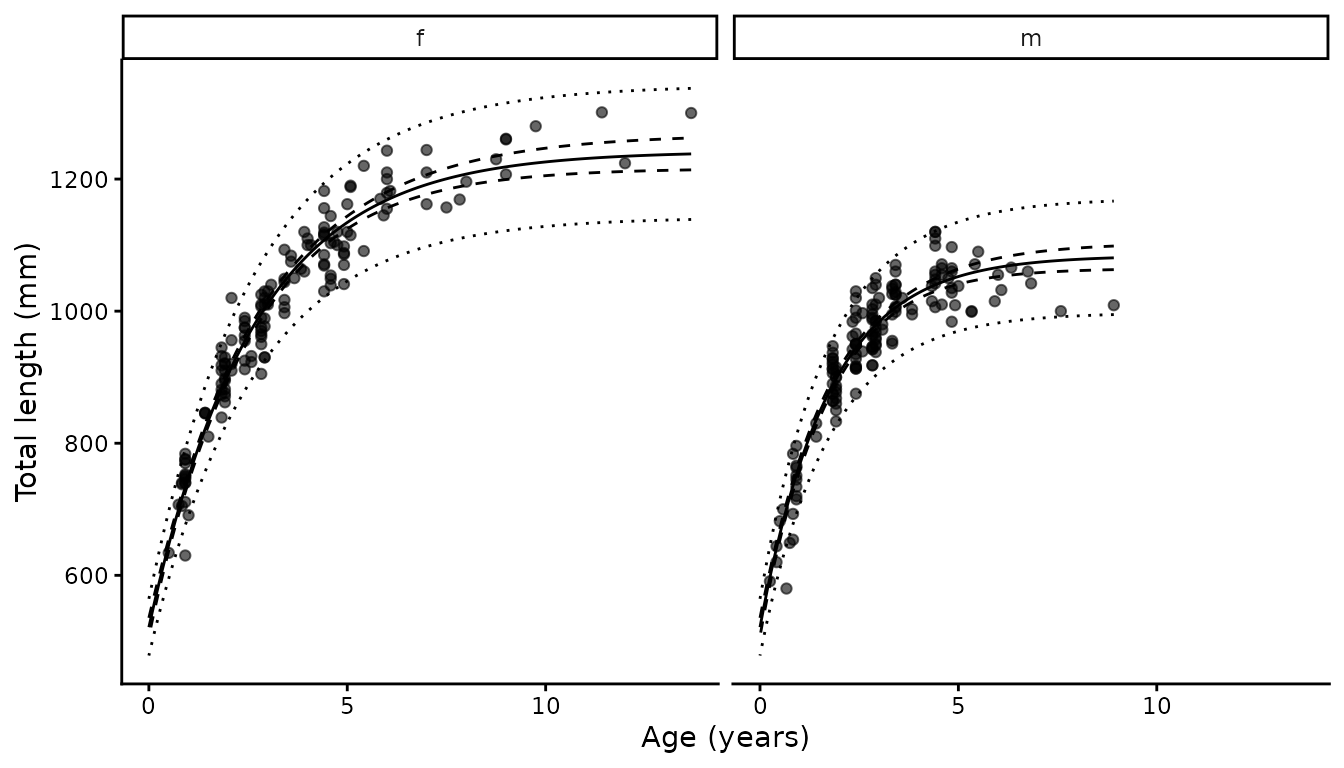
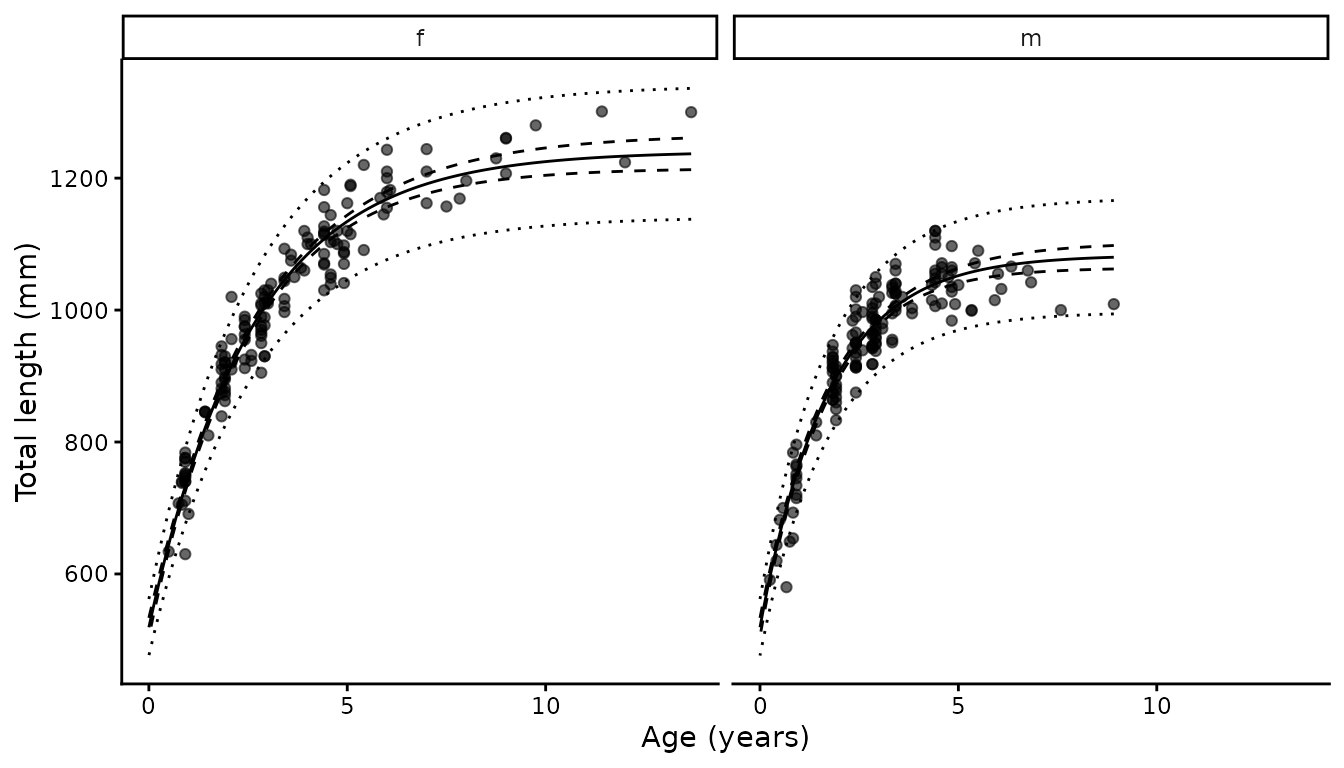
Deploying to gh-pages from @ alharry/mustelus@3723cec6b544e880a1ddc3a57a09efbecd142dcc 🚀

diff --git a/articles/growth.html b/articles/growth.html
@@ -126,7 +126,7 @@ readings, following Chang (1982), and held fixed.</p>
 <p>Animals with an unhealed umbilical scar are known to be age zero.
 Their lengths are direct information on
 <math display="inline" xmlns="http://www.w3.org/1998/Math/MathML"><semantics><msub><mi>L</mi><mn>0</mn></msub><annotation encoding="application/x-tex">L_0</annotation></semantics></math>:</p>
-<p><math display="block" xmlns="http://www.w3.org/1998/Math/MathML"><semantics><mrow><msub><mi>L</mi><mrow><mn>0</mn><mo>,</mo><mi>i</mi></mrow></msub><mo>∼</mo><mi>N</mi><mo stretchy="false" form="prefix">(</mo><msub><mi>L</mi><mn>0</mn></msub><mo>,</mo><mo stretchy="false" form="prefix">(</mo><mi>C</mi><msub><mi>V</mi><mi>L</mi></msub><msub><mi>L</mi><mn>0</mn></msub><msup><mo stretchy="false" form="postfix">)</mo><mn>2</mn></msup><mo stretchy="false" form="postfix">)</mo></mrow><annotation encoding="application/x-tex">L_{0,i} \sim N(L_0, (CV_L L_0)^2)</annotation></semantics></math></p>
+<p><math display="block" xmlns="http://www.w3.org/1998/Math/MathML"><semantics><mrow><msub><mi>L</mi><mrow><mn>0</mn><mo>,</mo><mi>i</mi></mrow></msub><mo>∼</mo><mi>N</mi><mo stretchy="false" form="prefix">(</mo><msub><mi>L</mi><mn>0</mn></msub><mo>,</mo><mo stretchy="false" form="prefix">(</mo><mi>C</mi><msub><mi>V</mi><mi>L</mi></msub><msub><mi>L</mi><mrow><mn>0</mn><mo>,</mo><mi>i</mi></mrow></msub><msup><mo stretchy="false" form="postfix">)</mo><mn>2</mn></msup><mo stretchy="false" form="postfix">)</mo></mrow><annotation encoding="application/x-tex">L_{0,i} \sim N(L_0, (CV_L L_{0,i})^2)</annotation></semantics></math></p>
 <p>These are often available in numbers, and from animals that were
 never aged, so they add information at no cost.</p>
 <p>Fitting is by maximum likelihood with <code>RTMB</code>, the random
@@ -134,6 +134,17 @@ effects integrated out by the Laplace approximation. Confidence
 intervals on the curve come from the delta method; prediction intervals
 add
 <math display="inline" xmlns="http://www.w3.org/1998/Math/MathML"><semantics><mrow><mi>C</mi><msub><mi>V</mi><mi>L</mi></msub></mrow><annotation encoding="application/x-tex">CV_L</annotation></semantics></math>.</p>
+<p>This is a port of the <code>TMB</code> implementation used in Harry
+et al. (2019), and reproduces the published estimates for
+<em>Carcharhinus limbatus</em> to within rounding:
+<math display="inline" xmlns="http://www.w3.org/1998/Math/MathML"><semantics><msub><mi>L</mi><mi>∞</mi></msub><annotation encoding="application/x-tex">L_{\infty}</annotation></semantics></math>
+263.3 and 241.9 cm,
+<math display="inline" xmlns="http://www.w3.org/1998/Math/MathML"><semantics><mi>K</mi><annotation encoding="application/x-tex">K</annotation></semantics></math>
+0.1418 and 0.1565,
+<math display="inline" xmlns="http://www.w3.org/1998/Math/MathML"><semantics><msub><mi>L</mi><mn>0</mn></msub><annotation encoding="application/x-tex">L_0</annotation></semantics></math>
+72.77 cm and
+<math display="inline" xmlns="http://www.w3.org/1998/Math/MathML"><semantics><mrow><mi>C</mi><msub><mi>V</mi><mi>L</mi></msub></mrow><annotation encoding="application/x-tex">CV_L</annotation></semantics></math>
+0.0487.</p>
 </div>
 </div>
 <div class="section level2">
@@ -149,8 +160,8 @@ add
 <span><span class="co">#&gt; <span style="color: #949494;"># A tibble: 2 × 17</span></span></span>
 <span><span class="co">#&gt;   group  Linf Linf_lower Linf_upper     K K_lower K_upper    L0 L0_lower</span></span>
 <span><span class="co">#&gt;   <span style="color: #949494; font-style: italic;">&lt;chr&gt;</span> <span style="color: #949494; font-style: italic;">&lt;dbl&gt;</span>      <span style="color: #949494; font-style: italic;">&lt;dbl&gt;</span>      <span style="color: #949494; font-style: italic;">&lt;dbl&gt;</span> <span style="color: #949494; font-style: italic;">&lt;dbl&gt;</span>   <span style="color: #949494; font-style: italic;">&lt;dbl&gt;</span>   <span style="color: #949494; font-style: italic;">&lt;dbl&gt;</span> <span style="color: #949494; font-style: italic;">&lt;dbl&gt;</span>    <span style="color: #949494; font-style: italic;">&lt;dbl&gt;</span></span></span>
-<span><span class="co">#&gt; <span style="color: #BCBCBC;">1</span> f      <span style="text-decoration: underline;">1</span>242       <span style="text-decoration: underline;">1</span>216       <span style="text-decoration: underline;">1</span>268 0.380   0.348   0.412  522.     507.</span></span>
-<span><span class="co">#&gt; <span style="color: #BCBCBC;">2</span> m      <span style="text-decoration: underline;">1</span>084       <span style="text-decoration: underline;">1</span>065       <span style="text-decoration: underline;">1</span>103 0.576   0.522   0.629  522.     507.</span></span>
+<span><span class="co">#&gt; <span style="color: #BCBCBC;">1</span> f      <span style="text-decoration: underline;">1</span>241       <span style="text-decoration: underline;">1</span>215       <span style="text-decoration: underline;">1</span>266 0.383   0.350   0.415  519.     505.</span></span>
+<span><span class="co">#&gt; <span style="color: #BCBCBC;">2</span> m      <span style="text-decoration: underline;">1</span>083       <span style="text-decoration: underline;">1</span>064       <span style="text-decoration: underline;">1</span>103 0.580   0.526   0.633  519.     505.</span></span>
 <span><span class="co">#&gt; <span style="color: #949494;"># ℹ 8 more variables: L0_upper &lt;dbl&gt;, CV_L &lt;dbl&gt;, n &lt;int&gt;, n0 &lt;int&gt;,</span></span></span>
 <span><span class="co">#&gt; <span style="color: #949494;">#   cv_age &lt;dbl&gt;, nll &lt;dbl&gt;, AIC &lt;dbl&gt;, convergence &lt;lgl&gt;</span></span></span></code></pre></div>
 <p>The summary has one row per group.
@@ -166,7 +177,7 @@ per group (<code>n</code>), the number of neonates (<code>n0</code>),
 the ageing CV if used, the negative log-likelihood, AIC, and whether the
 fit converged with a positive-definite Hessian.</p>
 <p>Female spot-tail sharks reach a larger asymptotic length than males
-(1242 against 1084 mm) and grow more slowly toward it (0.38 against
+(1241 against 1083 mm) and grow more slowly toward it (0.38 against
 0.58). That pattern, females larger and slower, is common in
 carcharhinids.</p>
 </div>
@@ -221,8 +232,8 @@ here are two simulated readings around it:</p>
 <span><span class="co">#&gt; <span style="color: #949494;"># A tibble: 2 × 5</span></span></span>
 <span><span class="co">#&gt;   group  Linf     K    L0 cv_age</span></span>
 <span><span class="co">#&gt;   <span style="color: #949494; font-style: italic;">&lt;chr&gt;</span> <span style="color: #949494; font-style: italic;">&lt;dbl&gt;</span> <span style="color: #949494; font-style: italic;">&lt;dbl&gt;</span> <span style="color: #949494; font-style: italic;">&lt;dbl&gt;</span>  <span style="color: #949494; font-style: italic;">&lt;dbl&gt;</span></span></span>
-<span><span class="co">#&gt; <span style="color: #BCBCBC;">1</span> f      <span style="text-decoration: underline;">1</span>243 0.37   528.  0.182</span></span>
-<span><span class="co">#&gt; <span style="color: #BCBCBC;">2</span> m      <span style="text-decoration: underline;">1</span>079 0.586  528.  0.182</span></span></code></pre></div>
+<span><span class="co">#&gt; <span style="color: #BCBCBC;">1</span> f      <span style="text-decoration: underline;">1</span>241 0.373  525.  0.182</span></span>
+<span><span class="co">#&gt; <span style="color: #BCBCBC;">2</span> m      <span style="text-decoration: underline;">1</span>078 0.590  525.  0.182</span></span></code></pre></div>
 <p>If only a consensus age is available but the ageing CV is known from
 elsewhere, supply it directly with <code>cv_age</code>. This is the more
 common situation when reanalysing published data.</p>
@@ -238,10 +249,10 @@ common situation when reanalysing published data.</p>
 <span>  <span class="fu"><a href="https://rdrr.io/r/base/c.html" class="external-link">c</a></span><span class="op">(</span>cv_age <span class="op">=</span> <span class="va">cv</span>, Linf_f <span class="op">=</span> <span class="fu"><a href="https://rdrr.io/r/base/summary.html" class="external-link">summary</a></span><span class="op">(</span><span class="va">gg</span><span class="op">)</span><span class="op">$</span><span class="va">Linf</span><span class="op">[</span><span class="fl">1</span><span class="op">]</span>, K_f <span class="op">=</span> <span class="fu"><a href="https://rdrr.io/r/base/summary.html" class="external-link">summary</a></span><span class="op">(</span><span class="va">gg</span><span class="op">)</span><span class="op">$</span><span class="va">K</span><span class="op">[</span><span class="fl">1</span><span class="op">]</span><span class="op">)</span></span>
 <span><span class="op">}</span><span class="op">)</span> <span class="op">|&gt;</span> <span class="fu"><a href="https://rdrr.io/r/base/t.html" class="external-link">t</a></span><span class="op">(</span><span class="op">)</span> <span class="op">|&gt;</span> <span class="fu"><a href="https://rdrr.io/r/base/as.data.frame.html" class="external-link">as.data.frame</a></span><span class="op">(</span><span class="op">)</span></span>
 <span><span class="co">#&gt;   cv_age Linf_f    K_f</span></span>
-<span><span class="co">#&gt; 1   0.00   1242 0.3799</span></span>
-<span><span class="co">#&gt; 2   0.05   1243 0.3776</span></span>
-<span><span class="co">#&gt; 3   0.10   1247 0.3707</span></span>
-<span><span class="co">#&gt; 4   0.20   1366 0.2695</span></span></code></pre></div>
+<span><span class="co">#&gt; 1   0.00   1241 0.3829</span></span>
+<span><span class="co">#&gt; 2   0.05   1242 0.3806</span></span>
+<span><span class="co">#&gt; 3   0.10   1246 0.3738</span></span>
+<span><span class="co">#&gt; 4   0.20   1249 0.3628</span></span></code></pre></div>
 <p>As the assumed ageing error grows,
 <math display="inline" xmlns="http://www.w3.org/1998/Math/MathML"><semantics><msub><mi>L</mi><mi>∞</mi></msub><annotation encoding="application/x-tex">L_\infty</annotation></semantics></math>
 rises and
@@ -262,21 +273,21 @@ von Bertalanffy fit.</p>
 <code class="sourceCode R"><span><span class="co"># Fixed-effect estimates and standard errors</span></span>
 <span><span class="fu"><a href="https://rdrr.io/r/base/summary.html" class="external-link">summary</a></span><span class="op">(</span><span class="va">g</span><span class="op">$</span><span class="va">mods</span><span class="op">[[</span><span class="fl">1</span><span class="op">]</span><span class="op">]</span><span class="op">$</span><span class="va">sdreport</span>, <span class="st">"fixed"</span><span class="op">)</span></span>
 <span><span class="co">#&gt;          Estimate   Std. Error</span></span>
-<span><span class="co">#&gt; Linf 1.242071e+03 13.190296999</span></span>
-<span><span class="co">#&gt; Linf 1.084039e+03  9.877246698</span></span>
-<span><span class="co">#&gt; K    3.799472e-01  0.016508716</span></span>
-<span><span class="co">#&gt; K    5.756673e-01  0.027280649</span></span>
-<span><span class="co">#&gt; L0   5.214827e+02  7.216221212</span></span>
-<span><span class="co">#&gt; CV_L 3.967731e-02  0.001628208</span></span></code></pre></div>
+<span><span class="co">#&gt; Linf 1.240716e+03 13.098814452</span></span>
+<span><span class="co">#&gt; Linf 1.083294e+03  9.814274998</span></span>
+<span><span class="co">#&gt; K    3.829032e-01  0.016599074</span></span>
+<span><span class="co">#&gt; K    5.796683e-01  0.027395151</span></span>
+<span><span class="co">#&gt; L0   5.191611e+02  7.280696262</span></span>
+<span><span class="co">#&gt; CV_L 3.970768e-02  0.001629402</span></span></code></pre></div>
 <div class="sourceCode" id="cb7"><pre class="downlit sourceCode r">
 <code class="sourceCode R"><span><span class="fu"><a href="https://rdrr.io/r/utils/head.html" class="external-link">head</a></span><span class="op">(</span><span class="va">g</span><span class="op">$</span><span class="va">preds</span><span class="op">[[</span><span class="fl">1</span><span class="op">]</span><span class="op">]</span><span class="op">)</span></span>
 <span><span class="co">#&gt;   group       age      len    lower    upper   plower   pupper</span></span>
-<span><span class="co">#&gt; 1     f 0.0000000 521.4827 507.3389 535.6265 478.5326 564.4327</span></span>
-<span><span class="co">#&gt; 2     f 0.1380505 558.3048 546.0689 570.5406 513.1956 603.4139</span></span>
-<span><span class="co">#&gt; 3     f 0.2761010 593.2452 582.5448 603.9457 545.8854 640.6051</span></span>
-<span><span class="co">#&gt; 4     f 0.4141515 626.4002 616.8757 635.9248 576.7643 676.0362</span></span>
-<span><span class="co">#&gt; 5     f 0.5522020 657.8610 649.1763 666.5458 605.9689 709.7532</span></span>
-<span><span class="co">#&gt; 6     f 0.6902525 687.7142 679.5718 695.8566 633.6161 741.8123</span></span></code></pre></div>
+<span><span class="co">#&gt; 1     f 0.0000000 519.1611 504.8909 533.4312 476.3104 562.0118</span></span>
+<span><span class="co">#&gt; 2     f 0.1380505 556.3119 543.9794 568.6445 511.2936 601.3302</span></span>
+<span><span class="co">#&gt; 3     f 0.2761010 591.5500 580.7770 602.3229 544.2677 638.8322</span></span>
+<span><span class="co">#&gt; 4     f 0.4141515 624.9737 615.3955 634.5519 575.3997 674.5477</span></span>
+<span><span class="co">#&gt; 5     f 0.5522020 656.6765 647.9518 665.4012 604.8300 708.5231</span></span>
+<span><span class="co">#&gt; 6     f 0.6902525 686.7471 678.5738 694.9204 632.6783 740.8159</span></span></code></pre></div>
 <p><code>mods</code> holds the <code>RTMB</code> objective function, the
 <code>nlminb</code> result and the <code>sdreport</code>. Note that the
 objective is an external pointer and will not survive

diff --git a/reference/growth.html b/reference/growth.html
@@ -134,7 +134,7 @@ neither argument, age is treated as measured without error.</p>
 <p><strong>Neonates.</strong> Supplying <code>neonate</code>, an indicator for individuals of
 known age zero such as those with an unhealed umbilical scar, adds their
 lengths as direct information on \(L_0\) through
-\(L_{0,i} \sim N(L_0, (CV_L L_0)^2)\). Flagged individuals are used only
+\(L_{0,i} \sim N(L_0, (CV_L L_{0,i})^2)\). Flagged individuals are used only
 for this term: any that also carry an age are removed from the length at age
 data, since an age-zero observation and a length at birth observation carry
 the same information and including both would count it twice.</p>
@@ -171,8 +171,8 @@ demography of a cryptic shark complex. <em>Marine and Freshwater Research</em>
 <span class="r-out co"><span class="r-pr">#&gt;</span> <span style="color: #949494;"># A tibble: 2 × 17</span></span>
 <span class="r-out co"><span class="r-pr">#&gt;</span>   group  Linf Linf_lower Linf_upper     K K_lower K_upper    L0 L0_lower</span>
 <span class="r-out co"><span class="r-pr">#&gt;</span>   <span style="color: #949494; font-style: italic;">&lt;chr&gt;</span> <span style="color: #949494; font-style: italic;">&lt;dbl&gt;</span>      <span style="color: #949494; font-style: italic;">&lt;dbl&gt;</span>      <span style="color: #949494; font-style: italic;">&lt;dbl&gt;</span> <span style="color: #949494; font-style: italic;">&lt;dbl&gt;</span>   <span style="color: #949494; font-style: italic;">&lt;dbl&gt;</span>   <span style="color: #949494; font-style: italic;">&lt;dbl&gt;</span> <span style="color: #949494; font-style: italic;">&lt;dbl&gt;</span>    <span style="color: #949494; font-style: italic;">&lt;dbl&gt;</span></span>
-<span class="r-out co"><span class="r-pr">#&gt;</span> <span style="color: #BCBCBC;">1</span> f      <span style="text-decoration: underline;">1</span>242       <span style="text-decoration: underline;">1</span>216       <span style="text-decoration: underline;">1</span>268 0.380   0.348   0.412  522.     507.</span>
-<span class="r-out co"><span class="r-pr">#&gt;</span> <span style="color: #BCBCBC;">2</span> m      <span style="text-decoration: underline;">1</span>084       <span style="text-decoration: underline;">1</span>065       <span style="text-decoration: underline;">1</span>103 0.576   0.522   0.629  522.     507.</span>
+<span class="r-out co"><span class="r-pr">#&gt;</span> <span style="color: #BCBCBC;">1</span> f      <span style="text-decoration: underline;">1</span>241       <span style="text-decoration: underline;">1</span>215       <span style="text-decoration: underline;">1</span>266 0.383   0.350   0.415  519.     505.</span>
+<span class="r-out co"><span class="r-pr">#&gt;</span> <span style="color: #BCBCBC;">2</span> m      <span style="text-decoration: underline;">1</span>083       <span style="text-decoration: underline;">1</span>064       <span style="text-decoration: underline;">1</span>103 0.580   0.526   0.633  519.     505.</span>
 <span class="r-out co"><span class="r-pr">#&gt;</span> <span style="color: #949494;"># ℹ 8 more variables: L0_upper &lt;dbl&gt;, CV_L &lt;dbl&gt;, n &lt;int&gt;, n0 &lt;int&gt;,</span></span>
 <span class="r-out co"><span class="r-pr">#&gt;</span> <span style="color: #949494;">#   cv_age &lt;dbl&gt;, nll &lt;dbl&gt;, AIC &lt;dbl&gt;, convergence &lt;lgl&gt;</span></span>
 <span class="r-in"><span></span></span>

diff --git a/articles/growth.md b/articles/growth.md
@@ -50,7 +50,7 @@ Animals with an unhealed umbilical scar are known to be age zero. Their
 lengths are direct information on $`L_0`$:
 
 ``` math
-L_{0,i} \sim N(L_0, (CV_L L_0)^2)
+L_{0,i} \sim N(L_0, (CV_L L_{0,i})^2)
 ```
 
 These are often available in numbers, and from animals that were never
@@ -59,6 +59,11 @@ aged, so they add information at no cost.
 Fitting is by maximum likelihood with `RTMB`, the random effects
 integrated out by the Laplace approximation. Confidence intervals on the
 curve come from the delta method; prediction intervals add $`CV_L`$.
+
+This is a port of the `TMB` implementation used in Harry et al. (2019),
+and reproduces the published estimates for *Carcharhinus limbatus* to
+within rounding: $`L_{\infty}`$ 263.3 and 241.9 cm, $`K`$ 0.1418 and
+0.1565, $`L_0`$ 72.77 cm and $`CV_L`$ 0.0487.
 
 ## Basic usage
 
@@ -73,8 +78,8 @@ summary(g)
 #> # A tibble: 2 × 17
 #>   group  Linf Linf_lower Linf_upper     K K_lower K_upper    L0 L0_lower
 #>   <chr> <dbl>      <dbl>      <dbl> <dbl>   <dbl>   <dbl> <dbl>    <dbl>
-#> 1 f      1242       1216       1268 0.380   0.348   0.412  522.     507.
-#> 2 m      1084       1065       1103 0.576   0.522   0.629  522.     507.
+#> 1 f      1241       1215       1266 0.383   0.350   0.415  519.     505.
+#> 2 m      1083       1064       1103 0.580   0.526   0.633  519.     505.
 #> # ℹ 8 more variables: L0_upper <dbl>, CV_L <dbl>, n <int>, n0 <int>,
 #> #   cv_age <dbl>, nll <dbl>, AIC <dbl>, convergence <lgl>
 ```
@@ -86,7 +91,7 @@ the number of aged animals per group (`n`), the number of neonates
 whether the fit converged with a positive-definite Hessian.
 
 Female spot-tail sharks reach a larger asymptotic length than males
-(1242 against 1084 mm) and grow more slowly toward it (0.38 against
+(1241 against 1083 mm) and grow more slowly toward it (0.38 against
 0.58). That pattern, females larger and slower, is common in
 carcharhinids.
 
@@ -145,8 +150,8 @@ summary(g_reads)[, c("group", "Linf", "K", "L0", "cv_age")]
 #> # A tibble: 2 × 5
 #>   group  Linf     K    L0 cv_age
 #>   <chr> <dbl> <dbl> <dbl>  <dbl>
-#> 1 f      1243 0.37   528.  0.182
-#> 2 m      1079 0.586  528.  0.182
+#> 1 f      1241 0.373  525.  0.182
+#> 2 m      1078 0.590  525.  0.182
 ```
 
 If only a consensus age is available but the ageing CV is known from
@@ -166,10 +171,10 @@ sapply(c(0, 0.05, 0.10, 0.20), function(cv) {
   c(cv_age = cv, Linf_f = summary(gg)$Linf[1], K_f = summary(gg)$K[1])
 }) |> t() |> as.data.frame()
 #>   cv_age Linf_f    K_f
-#> 1   0.00   1242 0.3799
-#> 2   0.05   1243 0.3776
-#> 3   0.10   1247 0.3707
-#> 4   0.20   1366 0.2695
+#> 1   0.00   1241 0.3829
+#> 2   0.05   1242 0.3806
+#> 3   0.10   1246 0.3738
+#> 4   0.20   1249 0.3628
 ```
 
 As the assumed ageing error grows, $`L_\infty`$ rises and $`K`$ falls.
@@ -188,24 +193,24 @@ error and the model reduces to an ordinary von Bertalanffy fit.
 # Fixed-effect estimates and standard errors
 summary(g$mods[[1]]$sdreport, "fixed")
 #>          Estimate   Std. Error
-#> Linf 1.242071e+03 13.190296999
-#> Linf 1.084039e+03  9.877246698
-#> K    3.799472e-01  0.016508716
-#> K    5.756673e-01  0.027280649
-#> L0   5.214827e+02  7.216221212
-#> CV_L 3.967731e-02  0.001628208
+#> Linf 1.240716e+03 13.098814452
+#> Linf 1.083294e+03  9.814274998
+#> K    3.829032e-01  0.016599074
+#> K    5.796683e-01  0.027395151
+#> L0   5.191611e+02  7.280696262
+#> CV_L 3.970768e-02  0.001629402
 ```
 
 ``` r
 
 head(g$preds[[1]])
 #>   group       age      len    lower    upper   plower   pupper
-#> 1     f 0.0000000 521.4827 507.3389 535.6265 478.5326 564.4327
-#> 2     f 0.1380505 558.3048 546.0689 570.5406 513.1956 603.4139
-#> 3     f 0.2761010 593.2452 582.5448 603.9457 545.8854 640.6051
-#> 4     f 0.4141515 626.4002 616.8757 635.9248 576.7643 676.0362
-#> 5     f 0.5522020 657.8610 649.1763 666.5458 605.9689 709.7532
-#> 6     f 0.6902525 687.7142 679.5718 695.8566 633.6161 741.8123
+#> 1     f 0.0000000 519.1611 504.8909 533.4312 476.3104 562.0118
+#> 2     f 0.1380505 556.3119 543.9794 568.6445 511.2936 601.3302
+#> 3     f 0.2761010 591.5500 580.7770 602.3229 544.2677 638.8322
+#> 4     f 0.4141515 624.9737 615.3955 634.5519 575.3997 674.5477
+#> 5     f 0.5522020 656.6765 647.9518 665.4012 604.8300 708.5231
+#> 6     f 0.6902525 686.7471 678.5738 694.9204 632.6783 740.8159
 ```
 
 `mods` holds the `RTMB` objective function, the `nlminb` result and the

diff --git a/reference/growth.md b/reference/growth.md
@@ -91,10 +91,10 @@ argument, age is treated as measured without error.
 **Neonates.** Supplying `neonate`, an indicator for individuals of known
 age zero such as those with an unhealed umbilical scar, adds their
 lengths as direct information on \\L_0\\ through \\L\_{0,i} \sim N(L_0,
-(CV_L L_0)^2)\\. Flagged individuals are used only for this term: any
-that also carry an age are removed from the length at age data, since an
-age-zero observation and a length at birth observation carry the same
-information and including both would count it twice.
+(CV_L L\_{0,i})^2)\\. Flagged individuals are used only for this term:
+any that also carry an age are removed from the length at age data,
+since an age-zero observation and a length at birth observation carry
+the same information and including both would count it twice.
 
 Estimation is by maximum likelihood using `RTMB`, with the random
 effects integrated out by the Laplace approximation. Confidence
@@ -132,8 +132,8 @@ summary(g)
 #> # A tibble: 2 × 17
 #>   group  Linf Linf_lower Linf_upper     K K_lower K_upper    L0 L0_lower
 #>   <chr> <dbl>      <dbl>      <dbl> <dbl>   <dbl>   <dbl> <dbl>    <dbl>
-#> 1 f      1242       1216       1268 0.380   0.348   0.412  522.     507.
-#> 2 m      1084       1065       1103 0.576   0.522   0.629  522.     507.
+#> 1 f      1241       1215       1266 0.383   0.350   0.415  519.     505.
+#> 2 m      1083       1064       1103 0.580   0.526   0.633  519.     505.
 #> # ℹ 8 more variables: L0_upper <dbl>, CV_L <dbl>, n <int>, n0 <int>,
 #> #   cv_age <dbl>, nll <dbl>, AIC <dbl>, convergence <lgl>
 
